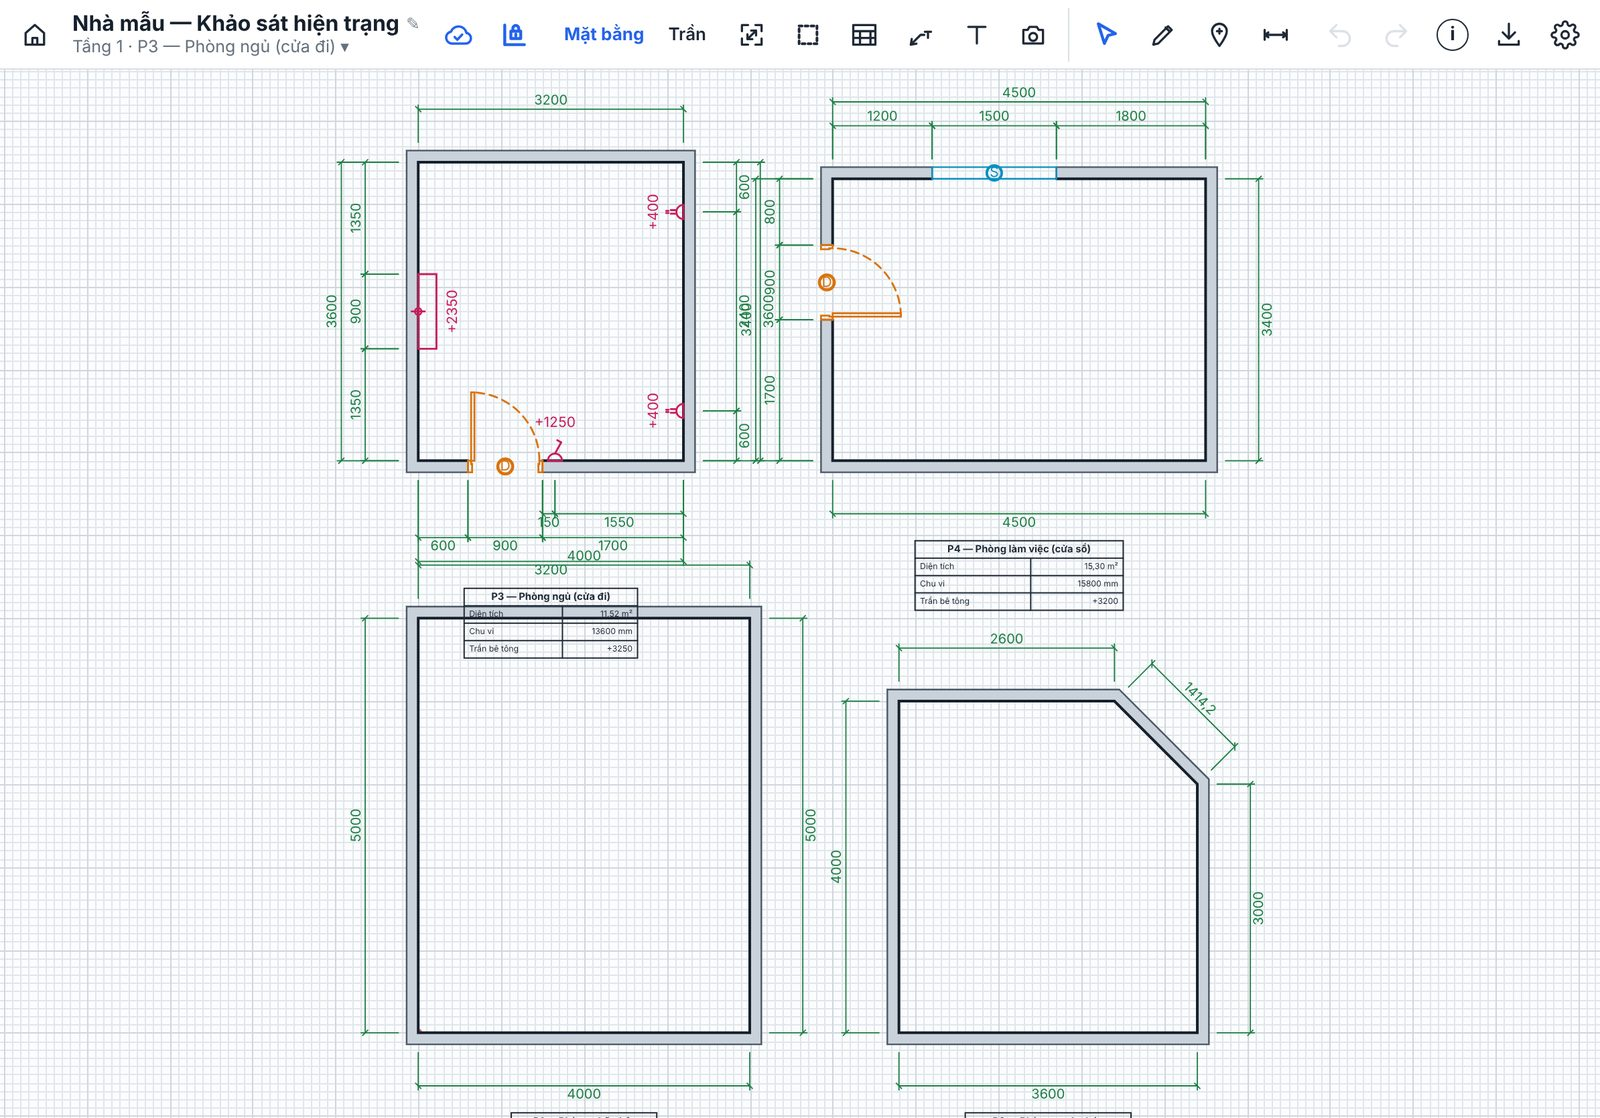
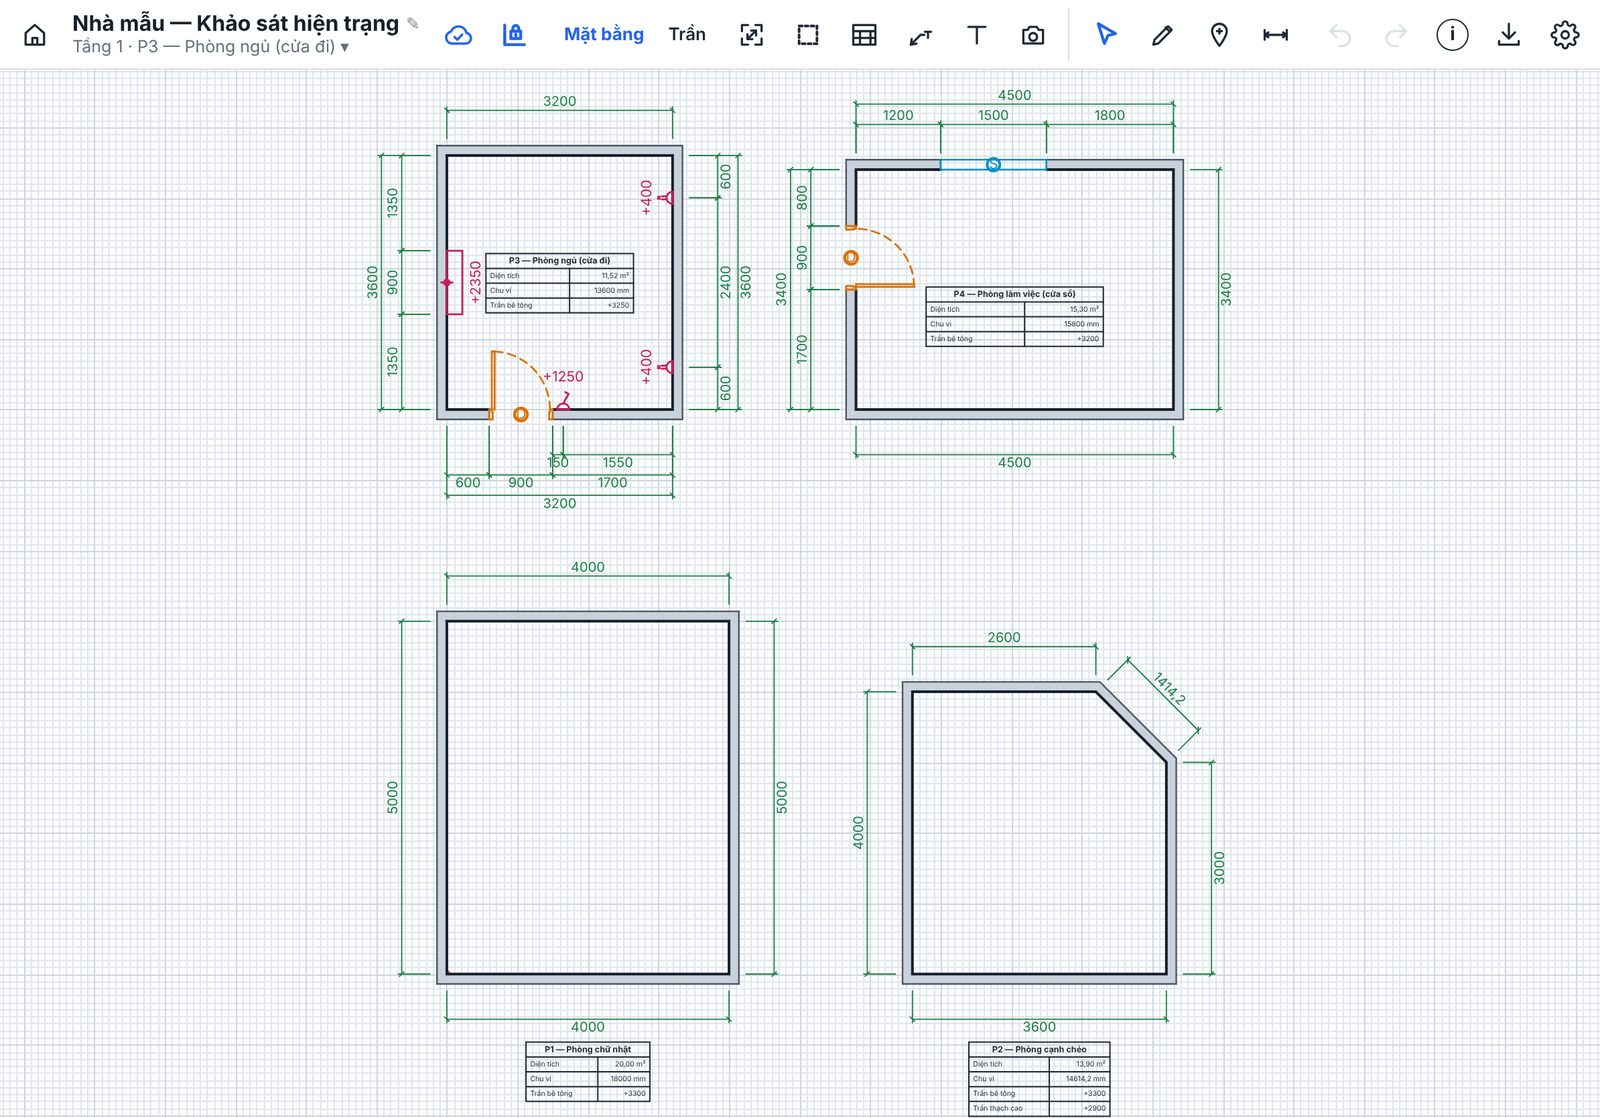
Menu ghi App; ảnh điện thoại đúng tỷ lệ iPhone, ảnh iPad không đè bảng tên; cuối trang: Khảo sát nhẹ nhàng hơn với EasyPlan
Claude-Session: https://claude.ai/code/session_01R1JQNWMoc6LWGU6fB681Jt

Changed region(s): [[0.0, 0.0608, 1.0, 1.0]]

diff --git a/ve-hien-trang/index.html b/ve-hien-trang/index.html
@@ -26,7 +26,7 @@
       <div class="nav-links">
         <a href="../sach/index.html">Sách</a>
         <a href="../bai-viet/index.html">Bài viết</a>
-        <a href="index.html">EasyPlan</a>
+        <a href="index.html">App</a>
         <a href="../ve-nam/index.html">Về Nam</a>
         <a href="../index.html#lien-he">Liên hệ</a>
       </div>
@@ -40,7 +40,7 @@
       <a href="../sach/index.html">Sách</a>
       <a href="../khoa-hoc/index.html">Khoá học</a>
       <a href="../bai-viet/index.html">Bài viết</a>
-      <a href="index.html">EasyPlan</a>
+      <a href="index.html">App</a>
       <a href="../ve-nam/index.html">Về Nam</a>
       <a href="../index.html#lien-he">Liên hệ</a>
     </div>
@@ -64,8 +64,8 @@
       <p class="vht-note">Không cần đăng nhập · Chạy không cần mạng · 🔒 Bản vẽ chỉ lưu trên máy ae, không gửi đi đâu · <a href="https://zalo.me/g/zzxyjlf8bxn0pkbo6b8w" target="_blank" rel="noopener">Nhóm Zalo nhận tài liệu</a></p>
     </div>
     <div class="vht-phones">
-      <figure class="vht-phone"><img src="anh/dt-mat-bang.jpg" width="720" height="1226" alt="Ảnh chụp app trên điện thoại: mặt bằng phòng ngủ có kích thước, cửa đi, ổ cắm, điều hoà" decoding="async" fetchpriority="high"></figure>
-      <figure class="vht-phone"><img src="anh/dt-mat-dung.jpg" width="720" height="1226" alt="Ảnh chụp app trên điện thoại: mặt đứng tường có ổ cắm, cao độ trần" loading="lazy" decoding="async"></figure>
+      <figure class="vht-phone"><img src="anh/dt-mat-bang.jpg" width="720" height="1558" alt="Ảnh chụp app trên điện thoại: mặt bằng phòng ngủ có kích thước, cửa đi, ổ cắm, điều hoà" decoding="async" fetchpriority="high"></figure>
+      <figure class="vht-phone"><img src="anh/dt-mat-dung.jpg" width="720" height="1558" alt="Ảnh chụp app trên điện thoại: mặt đứng tường có ổ cắm, cao độ trần" loading="lazy" decoding="async"></figure>
     </div>
   </div>
 </section>
@@ -134,7 +134,7 @@
 <section class="section" id="lien-he" aria-label="Mở app và liên hệ">
   <div class="wrap">
     <div class="vht-end">
-      <h2>Đi khảo sát nhẹ hơn với EasyPlan</h2>
+      <h2>Khảo sát nhẹ nhàng hơn với EasyPlan</h2>
       <p>Miễn phí cho ae trong nghề. Vào nhóm Zalo để nhận tài liệu, mẹo khảo sát, báo lỗi và góp ý tính năng.</p>
       <div class="vht-cta">
         <a class="btn btn-lg" href="app/" data-app-link>Mở app ngay ›</a>

diff --git a/khoa-hoc/index.html b/khoa-hoc/index.html
@@ -22,7 +22,7 @@
       <div class="nav-links">
         <a href="../sach/index.html">Sách</a>
         <a href="../bai-viet/index.html">Bài viết</a>
-        <a href="../ve-hien-trang/index.html">EasyPlan</a>
+        <a href="../ve-hien-trang/index.html">App</a>
         <a href="../ve-nam/index.html">Về Nam</a>
         <a href="../index.html#lien-he">Liên hệ</a>
       </div>
@@ -36,7 +36,7 @@
       <a href="../sach/index.html">Sách</a>
       <a href="index.html">Khoá học</a>
       <a href="../bai-viet/index.html">Bài viết</a>
-      <a href="../ve-hien-trang/index.html">EasyPlan</a>
+      <a href="../ve-hien-trang/index.html">App</a>
       <a href="../ve-nam/index.html">Về Nam</a>
       <a href="../index.html#lien-he">Liên hệ</a>
     </div>

diff --git a/sach/index.html b/sach/index.html
@@ -22,7 +22,7 @@
       <div class="nav-links">
         <a href="index.html">Sách</a>
         <a href="../bai-viet/index.html">Bài viết</a>
-        <a href="../ve-hien-trang/index.html">EasyPlan</a>
+        <a href="../ve-hien-trang/index.html">App</a>
         <a href="../ve-nam/index.html">Về Nam</a>
         <a href="../index.html#lien-he">Liên hệ</a>
       </div>
@@ -36,7 +36,7 @@
       <a href="index.html">Sách</a>
       <a href="../khoa-hoc/index.html">Khoá học</a>
       <a href="../bai-viet/index.html">Bài viết</a>
-      <a href="../ve-hien-trang/index.html">EasyPlan</a>
+      <a href="../ve-hien-trang/index.html">App</a>
       <a href="../ve-nam/index.html">Về Nam</a>
       <a href="../index.html#lien-he">Liên hệ</a>
     </div>

diff --git a/index.html b/index.html
@@ -23,7 +23,7 @@
       <div class="nav-links">
         <a href="sach/index.html">Sách</a>
         <a href="bai-viet/index.html">Bài viết</a>
-        <a href="ve-hien-trang/index.html">EasyPlan</a>
+        <a href="ve-hien-trang/index.html">App</a>
         <a href="ve-nam/index.html">Về Nam</a>
         <a href="#lien-he">Liên hệ</a>
       </div>
@@ -37,7 +37,7 @@
       <a href="sach/index.html">Sách</a>
       <a href="khoa-hoc/index.html">Khoá học</a>
       <a href="bai-viet/index.html">Bài viết</a>
-      <a href="ve-hien-trang/index.html">EasyPlan</a>
+      <a href="ve-hien-trang/index.html">App</a>
       <a href="ve-nam/index.html">Về Nam</a>
       <a href="#lien-he">Liên hệ</a>
     </div>

diff --git a/ve-nam/index.html b/ve-nam/index.html
@@ -21,7 +21,7 @@
       <a href="../sach/index.html">Sách</a>
       <a href="../khoa-hoc/index.html">Khoá học</a>
       <a href="../bai-viet/index.html">Bài viết</a>
-      <a href="../ve-hien-trang/index.html">EasyPlan</a>
+      <a href="../ve-hien-trang/index.html">App</a>
       <a href="index.html" aria-current="page">Về Nam</a>
     </nav>
   </div>

diff --git a/bai-viet/ai-do-dat-tay-len-vai-ban.html b/bai-viet/ai-do-dat-tay-len-vai-ban.html
@@ -20,7 +20,7 @@
       <a href="../sach/index.html">Sách</a>
       <a href="../khoa-hoc/index.html">Khoá học</a>
       <a href="../bai-viet/index.html">Bài viết</a>
-      <a href="../ve-hien-trang/index.html">EasyPlan</a>
+      <a href="../ve-hien-trang/index.html">App</a>
       <a href="../ve-nam/index.html">Về Nam</a>
     </nav>
   </div>

diff --git a/bai-viet/ai-se-chi-cho-em.html b/bai-viet/ai-se-chi-cho-em.html
@@ -20,7 +20,7 @@
       <a href="../sach/index.html">Sách</a>
       <a href="../khoa-hoc/index.html">Khoá học</a>
       <a href="../bai-viet/index.html">Bài viết</a>
-      <a href="../ve-hien-trang/index.html">EasyPlan</a>
+      <a href="../ve-hien-trang/index.html">App</a>
       <a href="../ve-nam/index.html">Về Nam</a>
     </nav>
   </div>

diff --git a/bai-viet/bao-gia-qua-nguoi-quen.html b/bai-viet/bao-gia-qua-nguoi-quen.html
@@ -20,7 +20,7 @@
       <a href="../sach/index.html">Sách</a>
       <a href="../khoa-hoc/index.html">Khoá học</a>
       <a href="../bai-viet/index.html">Bài viết</a>
-      <a href="../ve-hien-trang/index.html">EasyPlan</a>
+      <a href="../ve-hien-trang/index.html">App</a>
       <a href="../ve-nam/index.html">Về Nam</a>
     </nav>
   </div>

diff --git a/bai-viet/bat-chuoc.html b/bai-viet/bat-chuoc.html
@@ -20,7 +20,7 @@
       <a href="../sach/index.html">Sách</a>
       <a href="../khoa-hoc/index.html">Khoá học</a>
       <a href="../bai-viet/index.html">Bài viết</a>
-      <a href="../ve-hien-trang/index.html">EasyPlan</a>
+      <a href="../ve-hien-trang/index.html">App</a>
       <a href="../ve-nam/index.html">Về Nam</a>
     </nav>
   </div>

diff --git a/bai-viet/bo-tri-noi-that-nha-o.html b/bai-viet/bo-tri-noi-that-nha-o.html
@@ -20,7 +20,7 @@
       <a href="../sach/index.html">Sách</a>
       <a href="../khoa-hoc/index.html">Khoá học</a>
       <a href="../bai-viet/index.html">Bài viết</a>
-      <a href="../ve-hien-trang/index.html">EasyPlan</a>
+      <a href="../ve-hien-trang/index.html">App</a>
       <a href="../ve-nam/index.html">Về Nam</a>
     </nav>
   </div>

diff --git a/bai-viet/chan-nghe.html b/bai-viet/chan-nghe.html
@@ -20,7 +20,7 @@
       <a href="../sach/index.html">Sách</a>
       <a href="../khoa-hoc/index.html">Khoá học</a>
       <a href="../bai-viet/index.html">Bài viết</a>
-      <a href="../ve-hien-trang/index.html">EasyPlan</a>
+      <a href="../ve-hien-trang/index.html">App</a>
       <a href="../ve-nam/index.html">Về Nam</a>
     </nav>
   </div>

diff --git a/bai-viet/chu-de-hoc-de-lam-nghe.html b/bai-viet/chu-de-hoc-de-lam-nghe.html
@@ -20,7 +20,7 @@
       <a href="../sach/index.html">Sách</a>
       <a href="../khoa-hoc/index.html">Khoá học</a>
       <a href="../bai-viet/index.html">Bài viết</a>
-      <a href="../ve-hien-trang/index.html">EasyPlan</a>
+      <a href="../ve-hien-trang/index.html">App</a>
       <a href="../ve-nam/index.html">Về Nam</a>
     </nav>
   </div>
